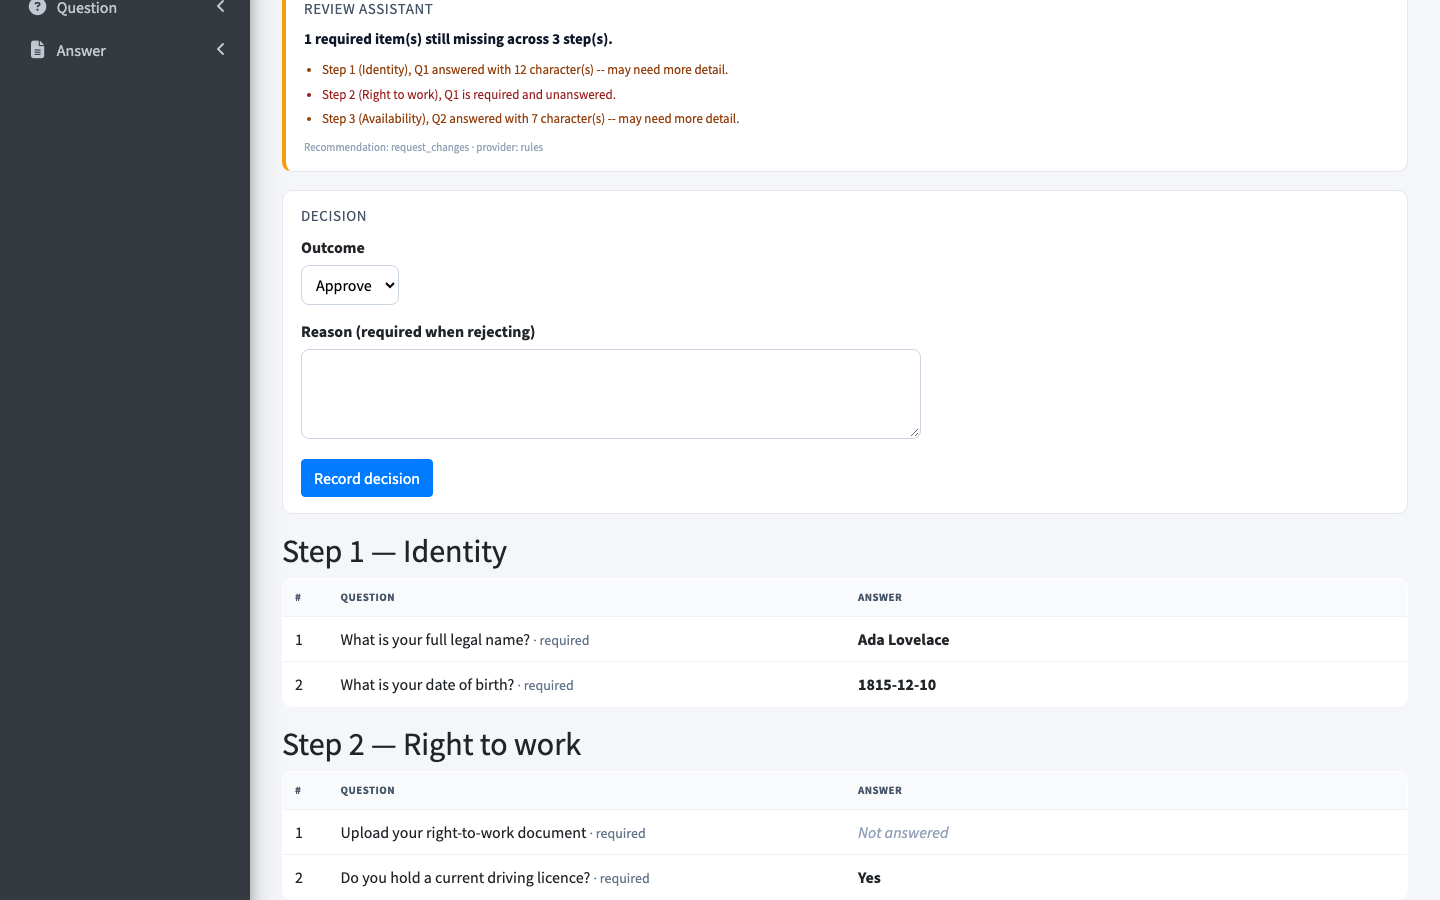
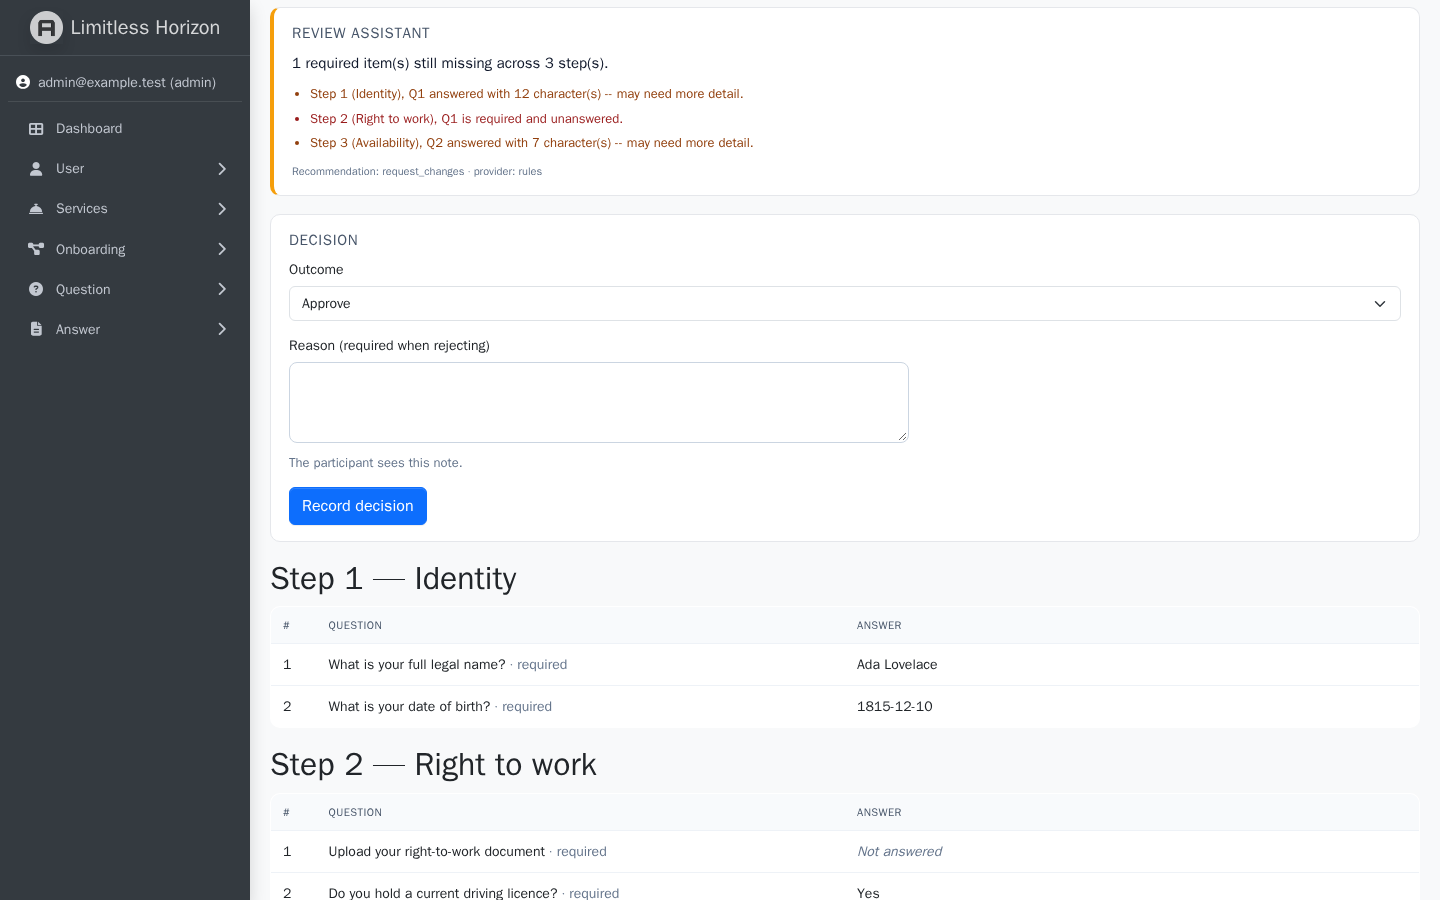
Retake the reviewer screenshots and add phone-width views
Captured from the seeded demo after the accessibility and upload
changes, at 1440x900 and 390x844.

diff --git a/README.md b/README.md
@@ -109,6 +109,10 @@ their approval state:
 
 ![Answers on the review screen](docs/screenshots/review-answers.png)
 
+On a phone the tables scroll sideways rather than squeezing the answers:
+
+<img src="docs/screenshots/review-queue-mobile.png" alt="Review queue at phone width" width="260"> <img src="docs/screenshots/review-detail-mobile.png" alt="Review detail at phone width" width="260">
+
 ### The review assistant
 
 `review_assistant/` reads a submitted questionnaire before the reviewer does.
